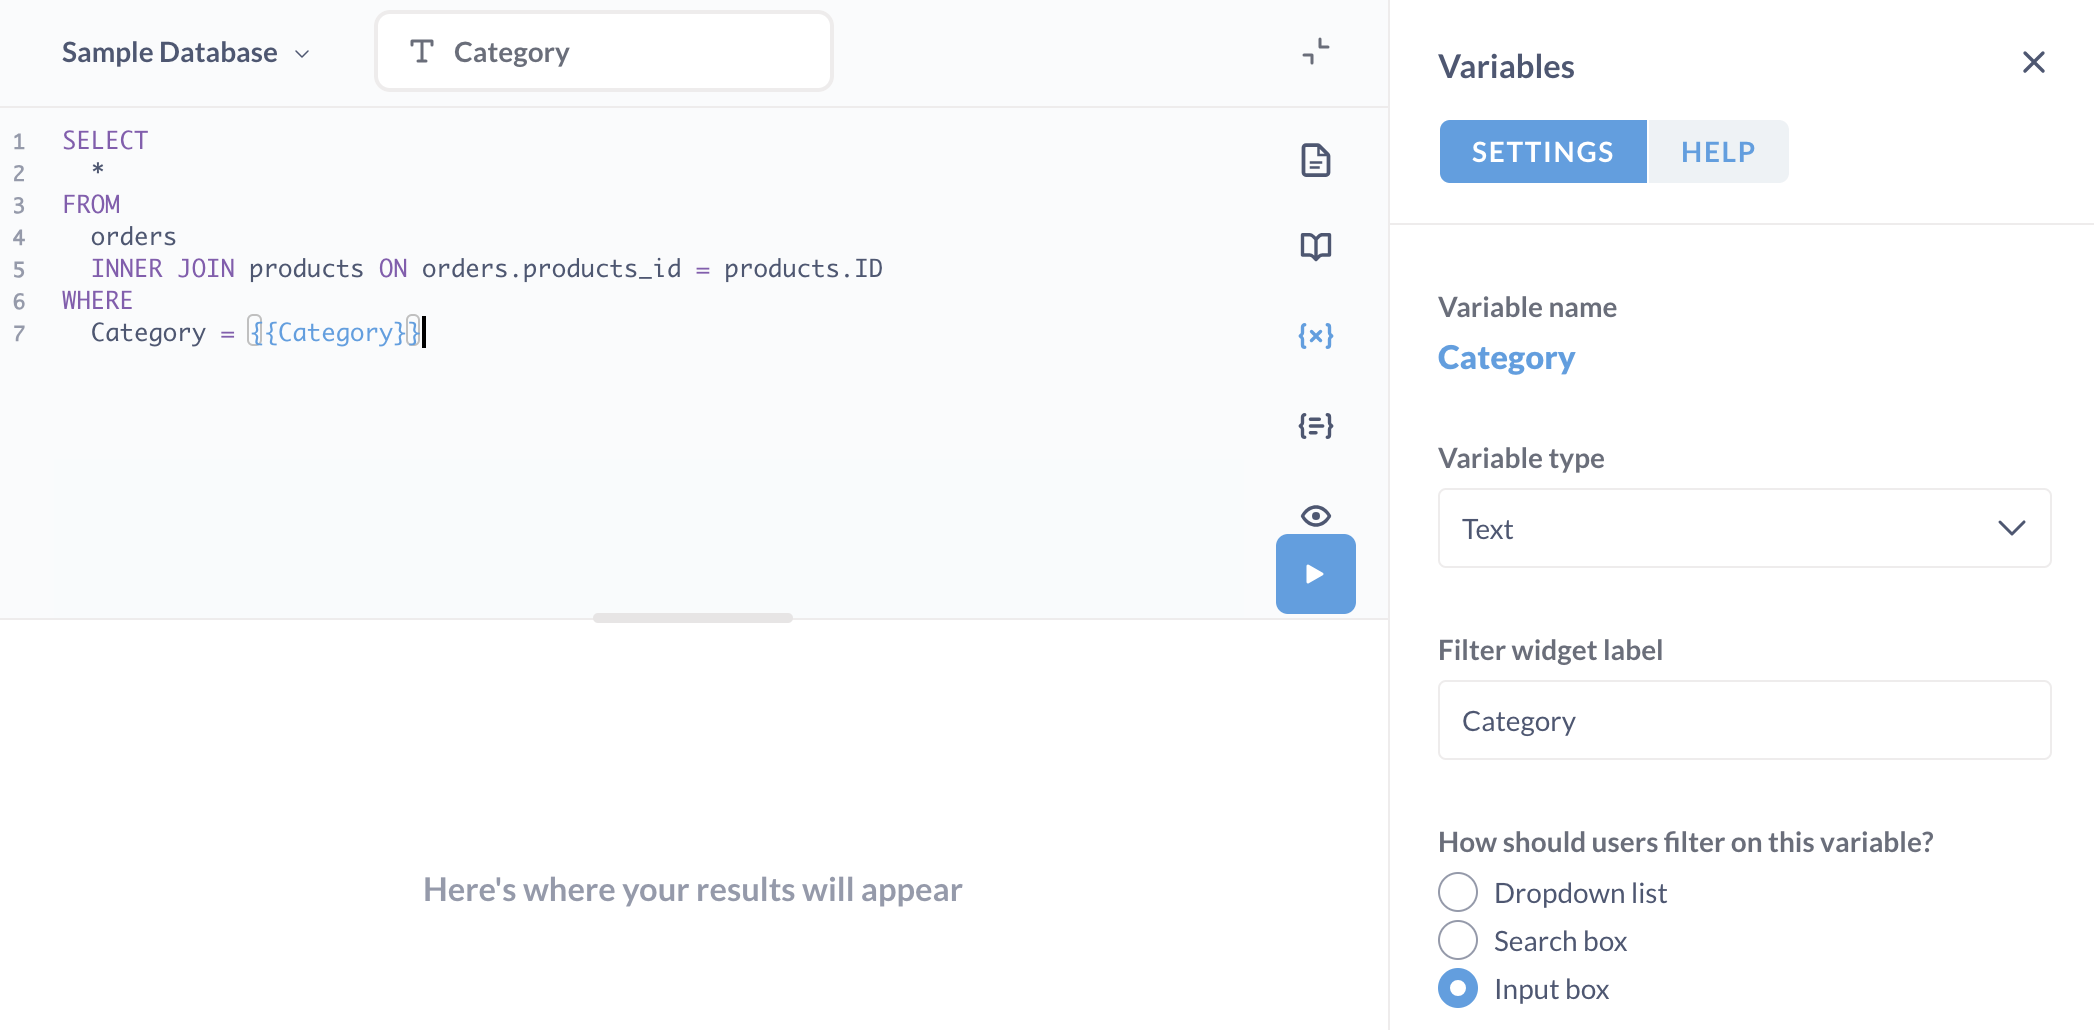
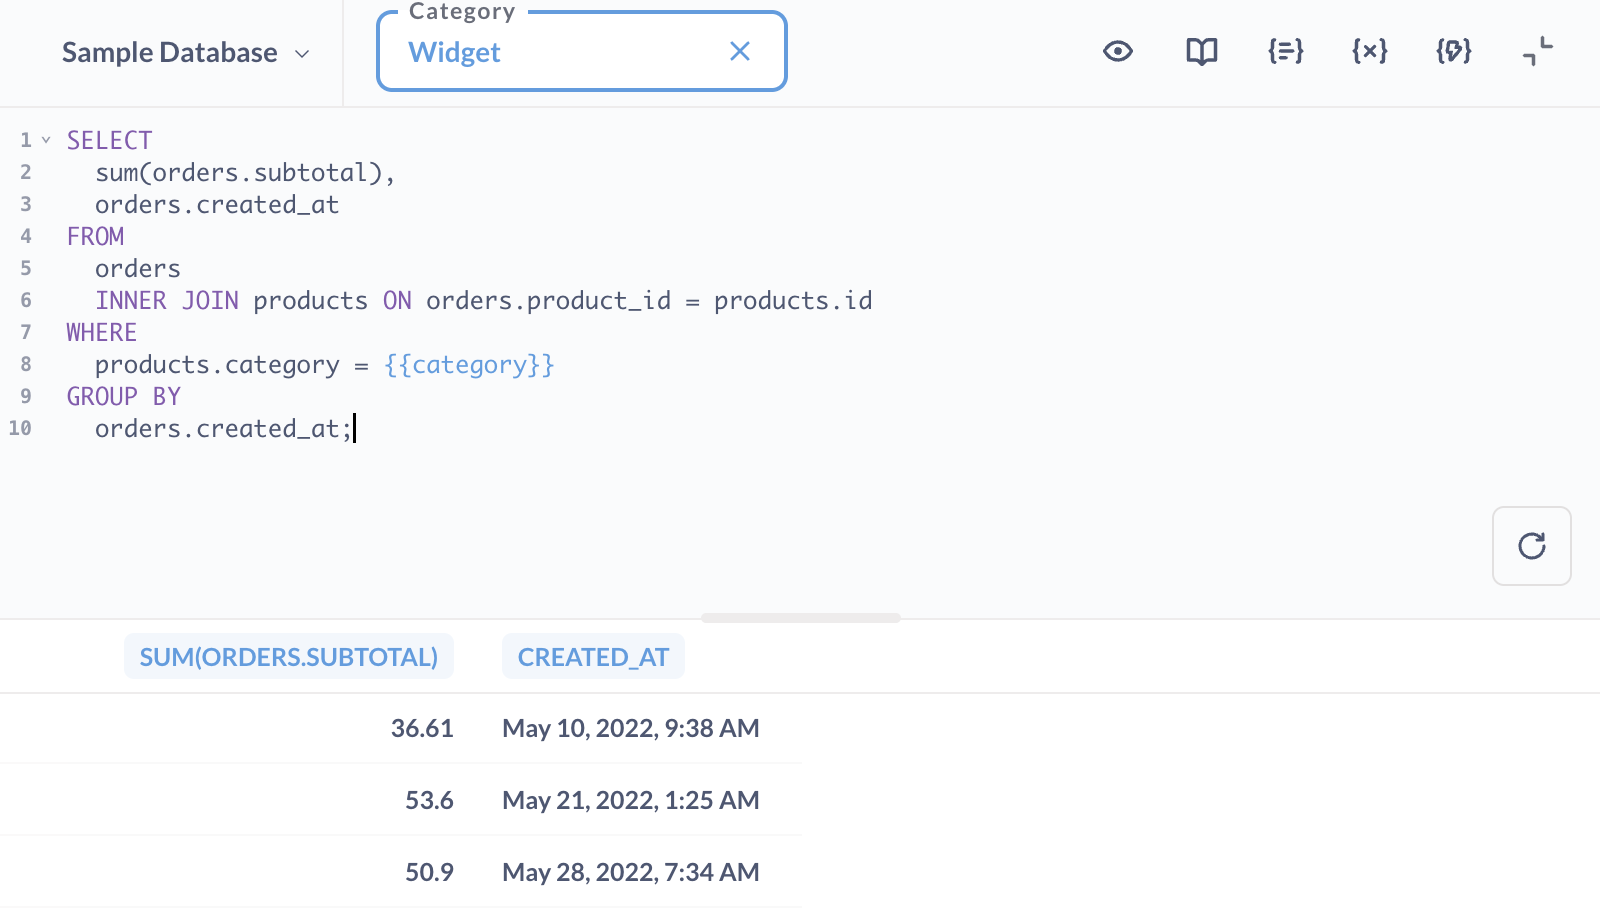
docs - native editor menu (#59204)
* update sql snippet

* update images

diff --git a/docs/questions/native-editor/snippets.md b/docs/questions/native-editor/snippets.md
@@ -7,7 +7,7 @@ redirect_from:
 
 # Snippets
 
-![Highlight and save as snippet](../images/highlight_and_save_as_snippet.gif)
+![SQL snippet](../images/sql-snippets.png)
 
 **Snippets** are reusable bits of SQL or native queries. Anyone with permissions to the [SQL editor](./writing-sql.md) can create and edit snippets, which are then available for all SQL authors.
 
@@ -18,10 +18,11 @@ For example, if you frequently perform queries that involve multiple tables, you
 Here's a simple query with a join using the **Sample Database** included with Metabase.
 
 ```sql
-SELECT *
-FROM orders AS o
-LEFT JOIN products AS p
-ON o.product_id = p.id
+SELECT
+  *
+FROM
+  orders AS o
+  LEFT JOIN products AS p ON o.product_id = p.id
 ```
 
 Let's save everything after FROM as a snippet to reuse in other queries.
@@ -32,8 +33,7 @@ In the **SQL editor**:
 
    ```sql
    orders AS o
-   LEFT JOIN products AS p
-   ON o.product_id = p.id
+   LEFT JOIN products AS p ON o.product_id = p.id
    ```
 
 2. **Right-click on the highlighted section.**
@@ -43,8 +43,12 @@ In the **SQL editor**:
 In this case, we named the snippet "Orders and Products". The snippet will now be available for anyone to use. Here's what the snippet looks like in the SQL editor:
 
 ```sql
-SELECT *
-FROM {% raw %}{{snippet: Orders and Products}}{% endraw %}
+{% raw %}
+SELECT
+  *
+FROM
+  {{snippet: Orders and products}}
+{% endraw %}
 ```
 
 When writing in the SQL editor, you can now start typing `{% raw %}{{snippet:}}{% endraw %}` and Metabase will present autocomplete options for available snippets.
@@ -52,8 +56,6 @@ When writing in the SQL editor, you can now start typing `{% raw %}{{snippet:}}{
 Note: if you use aliases in a snippet, you'll need to observe those aliases outside of the snippet as well. For example, if a snippet aliases `products AS p`, code outside of the snippet will need to use the alias `p` to reference columns in that table (as in `p.column_name`).
 
 ## Snippet menu
-
-![Snippet sidebar and insertion](../images/snippet_sidebar_and_insertion.gif)
 
 The SQL editor **sidebar** has a **Snippets** menu to list available and archived snippets.
 

diff --git a/docs/questions/native-editor/writing-sql.md b/docs/questions/native-editor/writing-sql.md
@@ -54,9 +54,24 @@ This is due to limitations of JDBC that interprets a single question mark `?` as
 
 You can format your SQL queries by clicking on the "document" icon in the editor sidebar.
 
-| Before format                                                         | After format                                                        |
-| --------------------------------------------------------------------- | ------------------------------------------------------------------- |
-| ![a SQL query before formatting](../images/before-sql-formatting.png) | ![a SQL query after formatting](../images/after-sql-formatting.png) |
+**Before format**:
+
+```sql
+select sum(subtotal),
+  created_at from orders group by created_at;
+```
+
+**After format**:
+
+```sql
+SELECT
+  sum(subtotal),
+  created_at
+FROM
+  orders
+GROUP BY
+  created_at;
+```
 
 The formatter works only for SQL queries, and isn’t available for SQLite and SQL Server.
 
